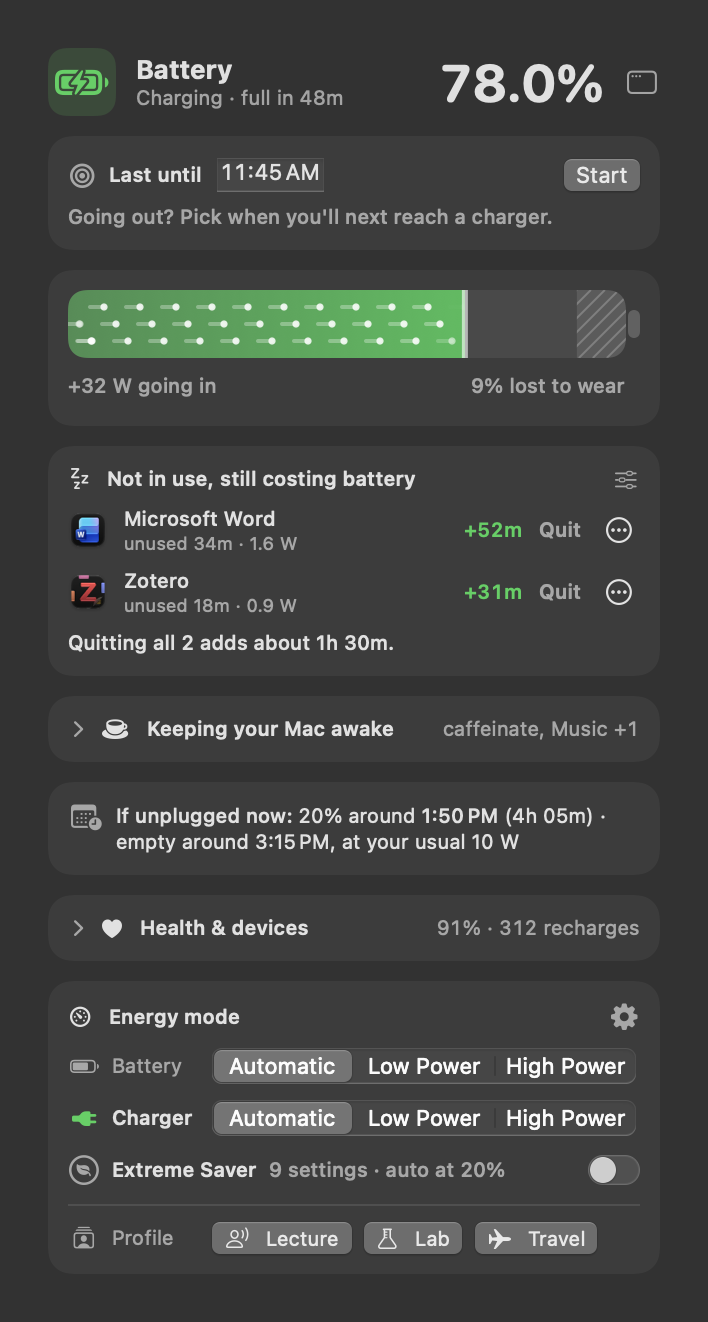
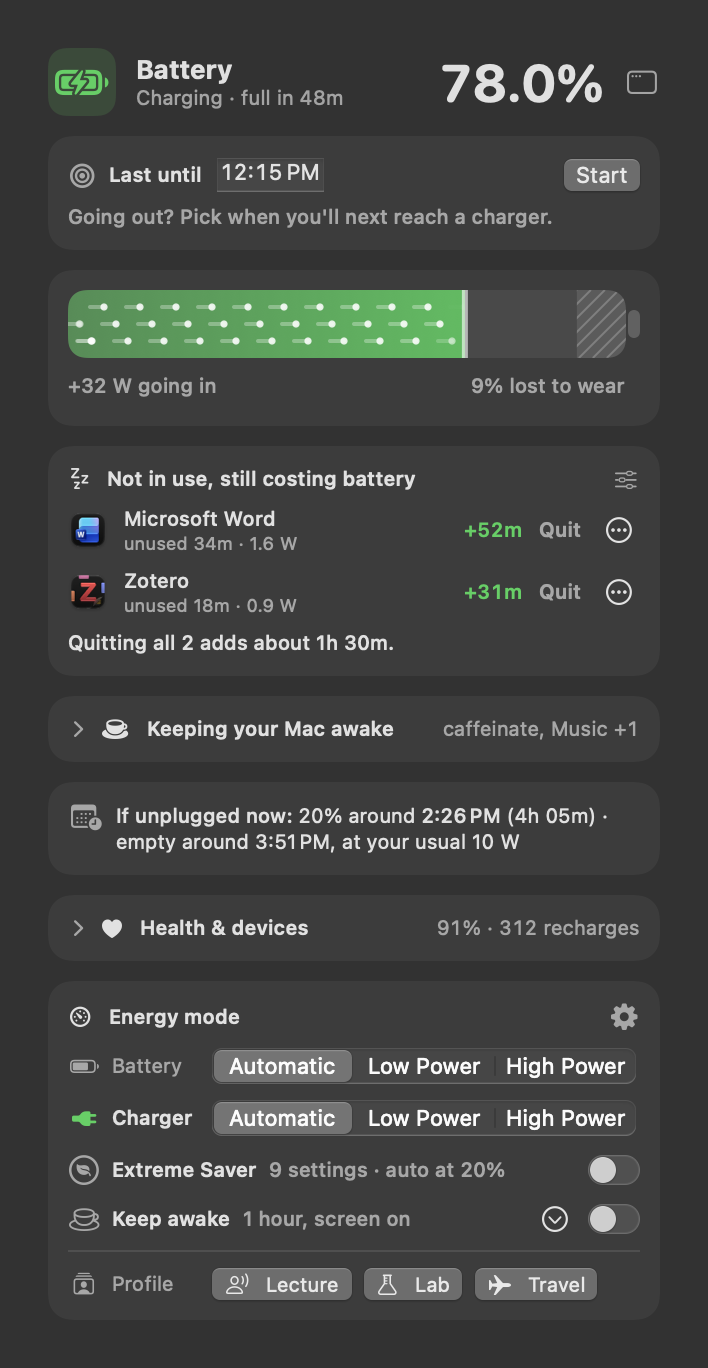
Sparewatt 1.17: changelog; Keep awake (Power controls section, right-click menu, links, notification, guide, feature index); Energy mode and Battery panel images from demo renders

diff --git a/features/07 Power controls.md b/features/07 Power controls.md
@@ -123,6 +123,41 @@ When Extreme Saver turns on, the apps it pauses dim one by one under its switch 
 gives back counts up ("Paused 3 apps · about +48m"). The time is an estimate from their share of the power, the same
 sum as *Power per app*, and is left out on the charger. The row stays while Extreme Saver is on.
 
+---
+
+## Keep awake
+
+**Purpose.** Stop the Mac going to sleep, or the screen turning off, while you need it: a download, a long build, a
+presentation, a video call on a stand.
+
+**What it does.** Keeps the screen on, or with *Keep the screen on too* unticked only the Mac, for as long as you choose:
+- **for** 15 minutes, 30 minutes, 1, 2, 4 or 8 hours;
+- **until** a clock time (the next six whole hours are offered; a link can set any time);
+- **while an app runs** (it ends when that app quits);
+- **until you turn it off**.
+
+The switch in the *Energy mode* card starts it with the last length you chose (1 hour at first); the chevron beside it
+has every choice. While it is on, the card says until when and how long is left, the battery part of the menu bar
+starts with **☕** (or the power part, on a Mac with no battery), and *Keeping your Mac awake* lists Sparewatt with a
+**Turn off** button.
+
+It uses the same macOS mechanism as the `caffeinate` command. No password, and no tool is started.
+
+**It ends by itself** at its time, when its app quits, when Sparewatt quits, and on battery when the charge falls below
+10% (with a notification, "Keep awake is off"). If you started it below 10%, it waits until the charge falls further.
+
+**Use cases.**
+- A large download or upload: *While an app runs* → your browser, then walk away.
+- A presentation on battery: *For 1 hour*, screen on.
+- A render overnight on the charger: *Until I turn it off*, screen off.
+
+**Where.** Battery panel and page (*Energy mode* card), the right-click menu (*Keep Awake*), and links
+(`sparewatt://keep-awake/…`, see [Links](../reference/Links%20for%20Shortcuts%20and%20scripts.md)).
+
+**Limits.** Like `caffeinate`, it only stops the Mac going to sleep by itself: closing the lid or choosing Sleep still
+puts it to sleep. It is not kept across a restart of Sparewatt. The "away" notification under
+[Keeping your Mac awake](05%20Battery.md#keeping-your-mac-awake) leaves it out, since you asked for it.
+
 ## Profiles
 
 <p align="center"><img src="../images/features/profiles.png" width="480" alt="Profiles"><br><em>Profiles: Lecture, Lab, Travel — energy mode on battery and on charger, and Extreme Saver, per profile.</em></p>

diff --git a/features/08 Alerts and notifications.md b/features/08 Alerts and notifications.md
@@ -10,6 +10,7 @@ normal. Every notification it sends is listed here.
 | **Still high** — "Processor has been above 85% for 5 min (now 92%)." | processor, memory or temperature above its red limit for N minutes | once per episode | no | Dashboard → Menu Bar → *Alerts* (on, 5 min) |
 | **Unusual background activity** — "*name* (*kind*) is using 34% of the processor — usually 0.8%." | a background process far above its learned normal | once per episode | yes, by default | Dashboard → Menu Bar → *Alerts* (*…also when plugged in*) |
 | **Busy in the background** — "*app* has used about 18% of the processor for 10 minutes with no window on screen." | a hidden or windowless app busy for 10 minutes | once per episode | no | Dashboard → Shelf, Profiles & Alerts (on, 10%) |
+| **Keep awake is off** — "The battery is down to 9%, so your Mac can sleep again as usual." | [Keep awake](07%20Power%20controls.md#keep-awake) was on and the charge fell below 10% on battery | once each time it happens | yes | always on while Keep awake is on |
 | **Battery state doesn't add up** | charge state and measured current disagree for a minute | once per episode | no | always on |
 | **Storage almost full** — "Only 18 GB free (your limit is 20 GB)…" | free space below the limit | once, re-armed when space recovers | no | Dashboard → Shelf, Profiles & Alerts (20 GB) |
 | **On battery: *app*** — "*app* is using 45% processor (limit 30%)" | a Watchlist rule is exceeded | not repeated within the quiet period (10 min) | per rule | Dashboard → **Watchlist** |

diff --git a/reference/Links for Shortcuts and scripts.md b/reference/Links for Shortcuts and scripts.md
@@ -22,6 +22,8 @@ If Sparewatt isn't running, the link starts it and runs once the menu bar item i
 | `sparewatt://dashboard` | opens the dashboard |
 | `sparewatt://dashboard/<page>` | opens one page: `overview`, `cpu`, `gpu`, `memory`, `storage`, `temperature`, `network`, `battery`, `power`, `history`, `on-battery`, `extreme-saver`, `watchlist`, `profiles`, `menu-bar`, `this-app`, `startup-items`, `switches`, `assistant` |
 | `sparewatt://switch/<name>/on` · `/off` · `/toggle` | turns one of your [Switches](../features/10%20Switches.md) on or off by its name |
+| `sparewatt://keep-awake/on` · `/off` · `/toggle` | [Keep awake](../features/07%20Power%20controls.md#keep-awake) until you turn it off, off, or the switch (`toggle` uses the last length chosen) |
+| `sparewatt://keep-awake/<minutes>` · `/until/15:30` | keep awake for that many minutes (1–1440), or until that time (24-hour clock; tomorrow if it has passed today) |
 | `sparewatt://share` · `/day` · `/week` | opens the dashboard's share sheet on the ["My Mac today"](../features/11%20Dashboard%2C%20history%20and%20this%20app.md#my-mac-today-share-card) card (`share` alone, or `/day`) or the ["My Mac this week"](../features/11%20Dashboard%2C%20history%20and%20this%20app.md#my-mac-this-week-card) card |
 
 ## Details

diff --git a/README.md b/README.md
@@ -73,7 +73,7 @@ catalogue and everyday scenarios ("a full day on battery", "the battery drops ov
 | Named processes, quitting, background normals, Watchlist | [Who is using it](features/04%20Who%20is%20using%20it.md) |
 | Battery state, charge plan, wear, what keeps the Mac awake, overnight drain, keyboard / mouse / headphones / game controller batteries with time left, Macs without a battery | [Battery](features/05%20Battery.md) |
 | Power flow, charger details and history, USB power out, power per app, idle apps | [Power](features/06%20Power.md) |
-| Energy modes, On Battery settings, Extreme Saver, profiles | [Power controls](features/07%20Power%20controls.md) |
+| Energy modes, On Battery settings, Extreme Saver, keep awake, profiles | [Power controls](features/07%20Power%20controls.md) |
 | Every notification, and its Quit / Show buttons | [Alerts and notifications](features/08%20Alerts%20and%20notifications.md) |
 | Latest File, Shelf, caches, Downloads tidy-up, clipboard | [Files and storage](features/09%20Files%20and%20storage.md) |
 | Local services on/off | [Switches](features/10%20Switches.md) |

diff --git a/features/README.md b/features/README.md
@@ -59,6 +59,7 @@ answers three questions from the menu bar:
 | Energy mode | Low Power / High Power per power source | no System Settings digging | [Power controls](07%20Power%20controls.md) |
 | On Battery settings | what the Mac may do unplugged | overnight drain fixed in one page | [Power controls](07%20Power%20controls.md#on-battery-settings) |
 | Extreme Saver | every saving in one switch | freezes apps without losing work | [Power controls](07%20Power%20controls.md#extreme-saver) |
+| Keep awake | stop the Mac or screen sleeping for a while | for a time, until a time, or while an app runs; ends by itself | [Power controls](07%20Power%20controls.md#keep-awake) |
 | Profiles | situation presets | one click per situation | [Power controls](07%20Power%20controls.md#profiles) |
 | Alerts and notifications | told once, when it matters | no repeated nagging; Quit and Show buttons | [Alerts and notifications](08%20Alerts%20and%20notifications.md) |
 | Latest File | the newest file, ready to drag | no Finder hunting | [Files and storage](09%20Files%20and%20storage.md) |

diff --git a/CHANGELOG.md b/CHANGELOG.md
@@ -2,6 +2,17 @@
 
 What changed in Sparewatt, newest first, in plain words. Dates are when the change was made.
 
+## 2026-11-21 — Sparewatt 1.17
+
+Released as [Sparewatt 1.17](https://github.com/MShirazAhmad/Sparewatt-docs/releases/tag/v1.17-2026-11-21).
+
+- **Keep awake:** keep the screen on, or only the Mac, for 15 minutes to 8 hours, until a clock time, while an app
+  runs, or until you turn it off. Use the switch in the *Energy mode* card (its chevron has every choice), *Keep Awake*
+  in the right-click menu, or `sparewatt://keep-awake/…` links. While it is on, the battery part of the menu bar
+  starts with ☕ and *Keeping your Mac awake* lists Sparewatt with a **Turn off** button. It ends by itself at its
+  time, when its app quits, when Sparewatt quits, and below 10% battery. No password, and no tool is started
+  ([more](features/07%20Power%20controls.md#keep-awake)).
+
 ## 2026-11-21 — Sparewatt 1.16
 
 Released as [Sparewatt 1.16](https://github.com/MShirazAhmad/Sparewatt-docs/releases/tag/v1.16-2026-11-21).

diff --git a/guide/04 Controls.md b/guide/04 Controls.md
@@ -34,6 +34,14 @@ nothing stays frozen once it is gone. ⌥⌘E toggles Extreme Saver from anywher
 On a Mac with no battery there is no Extreme Saver, the energy mode has one *Wall* row, and the On Battery page keeps
 only the low-battery alert for your devices.
 
+## Keep awake
+
+Keeps the screen on (or only the Mac) for 15 minutes to 8 hours, until a clock time, while an app runs, or until you
+turn it off: the switch and chevron in the *Energy mode* card, *Keep Awake* in the right-click menu, or
+`sparewatt://keep-awake/…` links. While it is on the battery part of the menu bar starts with ☕. It ends by itself at
+its time, when its app quits, when Sparewatt quits, and below 10% battery. No password
+([more](../features/07%20Power%20controls.md#keep-awake)).
+
 ## Profiles
 
 **Lecture**, **Lab** and **Travel**: energy modes for battery and charger plus Extreme Saver, applied in one click from

diff --git a/features/05 Battery.md b/features/05 Battery.md
@@ -267,7 +267,8 @@ records it. Each row says:
   `caffeinate` command *until it is stopped*, *set for 1h 00m*);
 - how long it has kept the Mac awake.
 
-When a part of macOS keeps the Mac awake for an app, the row is the app's. From its row you can **Quit** an app (a
+When a part of macOS keeps the Mac awake for an app, the row is the app's. Sparewatt's own
+[Keep awake](07%20Power%20controls.md#keep-awake) shows here too while it is on, with a **Turn off** button. From its row you can **Quit** an app (a
 normal quit, so it can still ask to save) or **Stop** a command such as `caffeinate`. Parts of macOS are listed but
 can't be quit.
 

diff --git a/features/01 Menu bar.md b/features/01 Menu bar.md
@@ -307,6 +307,8 @@ screen, or not shown by macOS) and a button that opens System Settings → Menu 
 - *Open Dashboard (⌥⌘R)*
 - *Settings…* (opens the dashboard on **On Battery**)
 - *Turn Extreme Saver On / Off*
+- *Keep Awake*: for a length, *Until* a time, *While an App Runs*, *Until I Turn It Off*, and *Keep the Screen On Too*;
+  ticked and named with its end while on ([Keep awake](07%20Power%20controls.md#keep-awake))
 - your **Switches** with a tick when on, and *Manage switches…*
 - *Quit Sparewatt*
 
